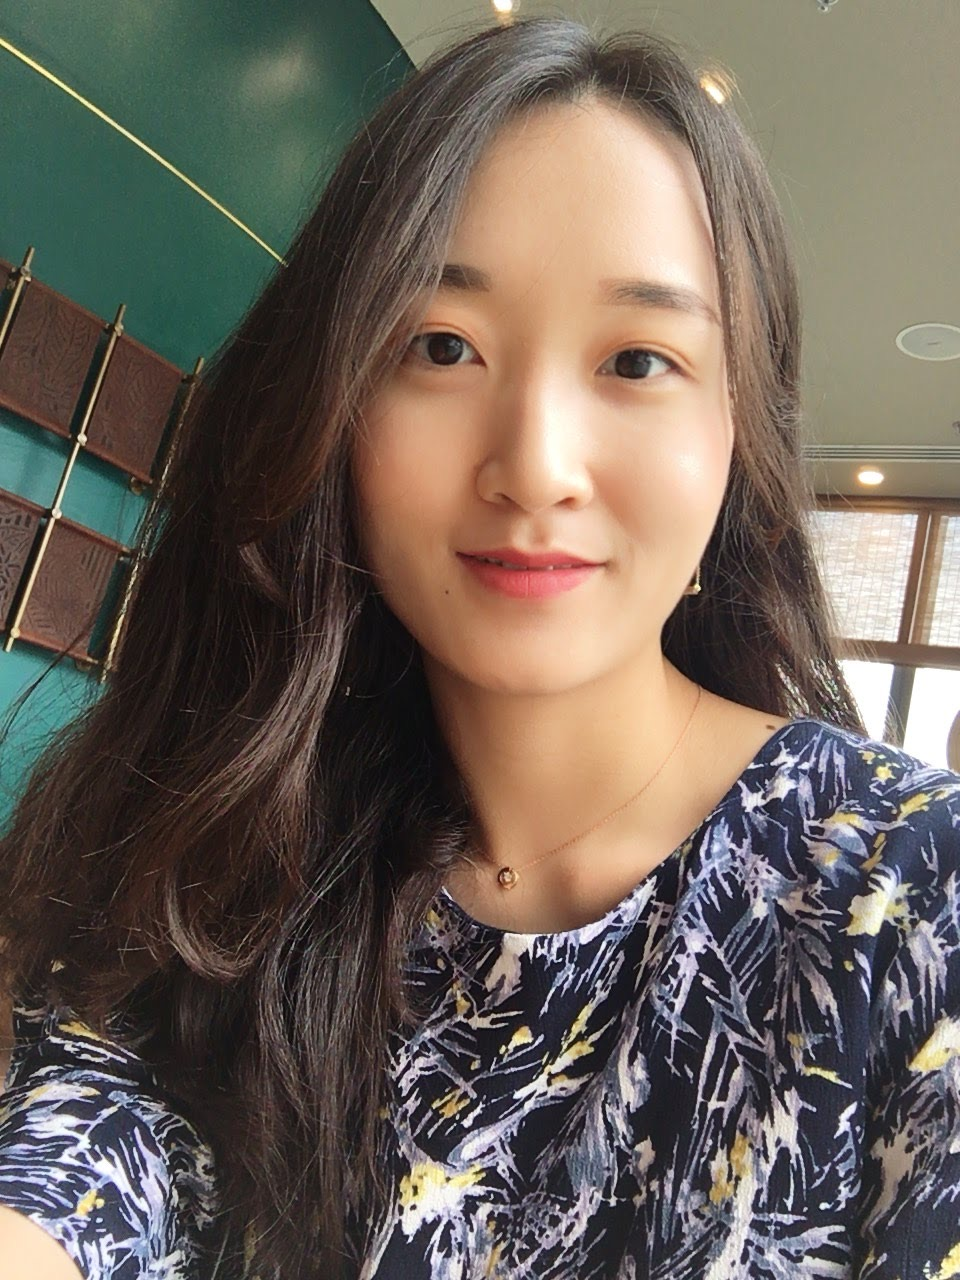
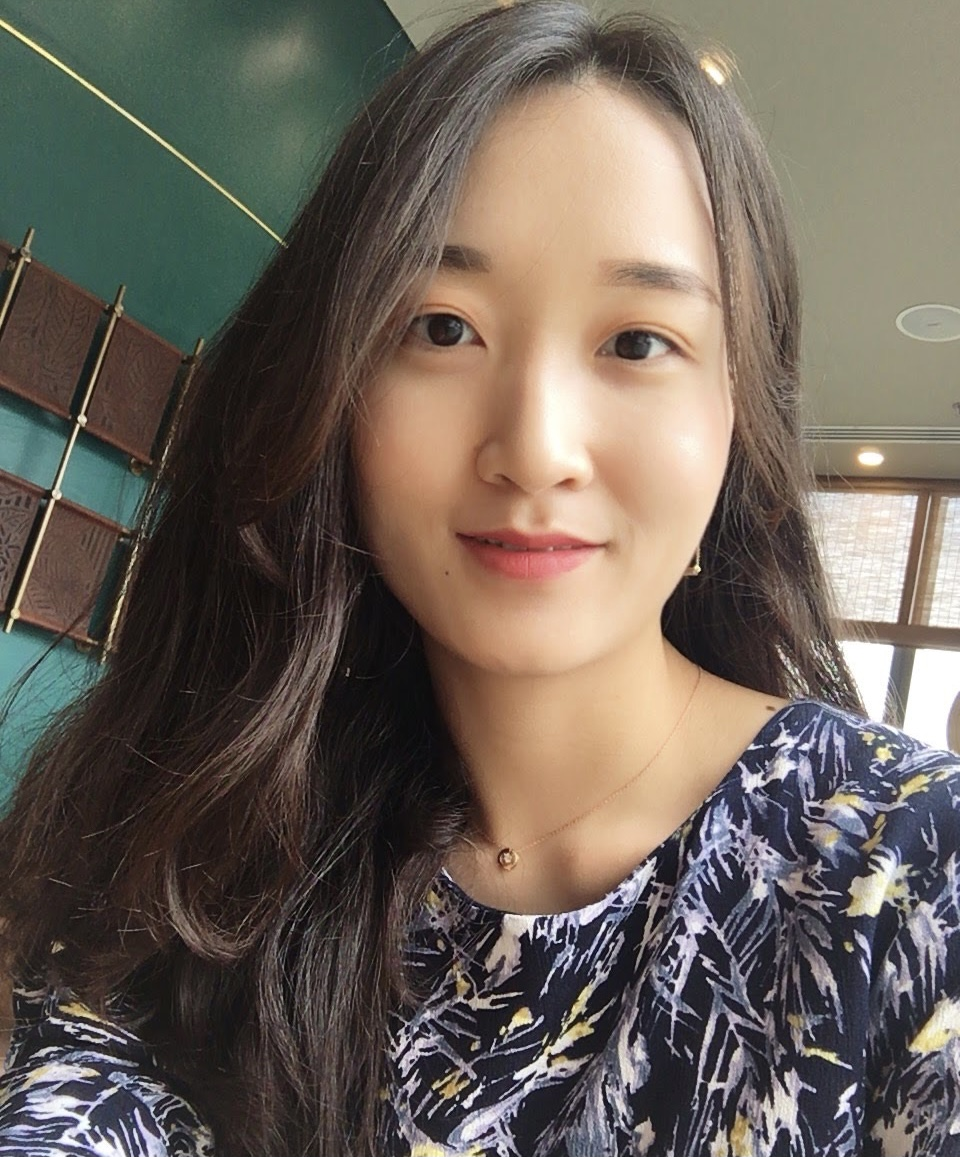
Update main.css

diff --git a/static/css/main.css b/static/css/main.css
@@ -161,10 +161,10 @@ i {
 /* images */
 .me {
     width: 160px;
-    height: 160px;
-    border-radius: 75px;
-    -webkit-border-radius: 75px;
-    -moz-border-radius: 75px;
+    height: auto;
+    border-radius: 30px;
+    -webkit-border-radius: 30px;
+    -moz-border-radius: 30px;
     display: block;
     margin-bottom: 20px;
     margin-left: auto;
